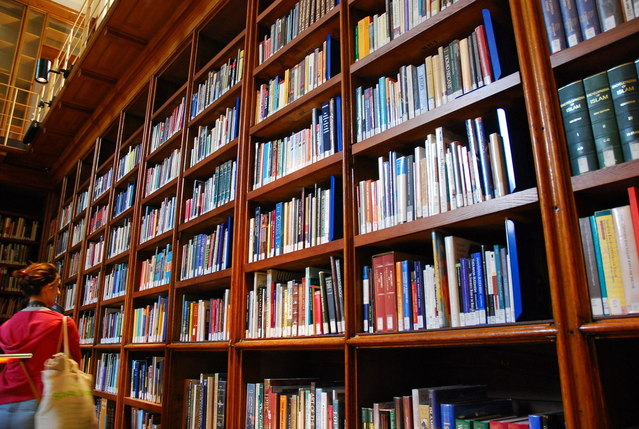
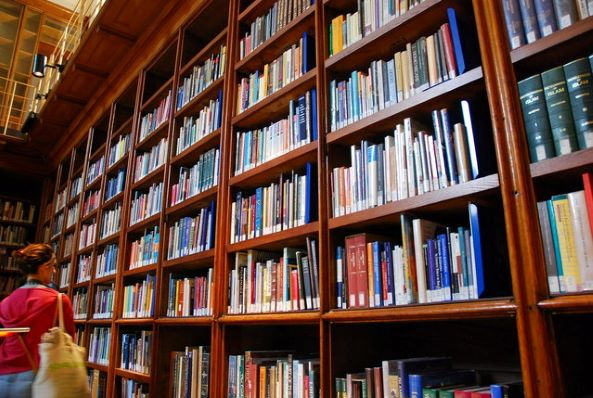
resized image and added radius to form.

diff --git a/css/main.css b/css/main.css
@@ -30,7 +30,7 @@ label{
 
   margin-top: 10px;
   margin-bottom: 10px;
-  border-style: solid;
+  border-radius: 25px;
   padding-bottom: 10px;
   background-color: white;
   ;
@@ -40,7 +40,7 @@ label{
   margin-top: 10px;
   margin-bottom: 10px;
 
-  background-color: grey;
+  background-color: white;
   border-radius: 25px;
 }
 h1{
